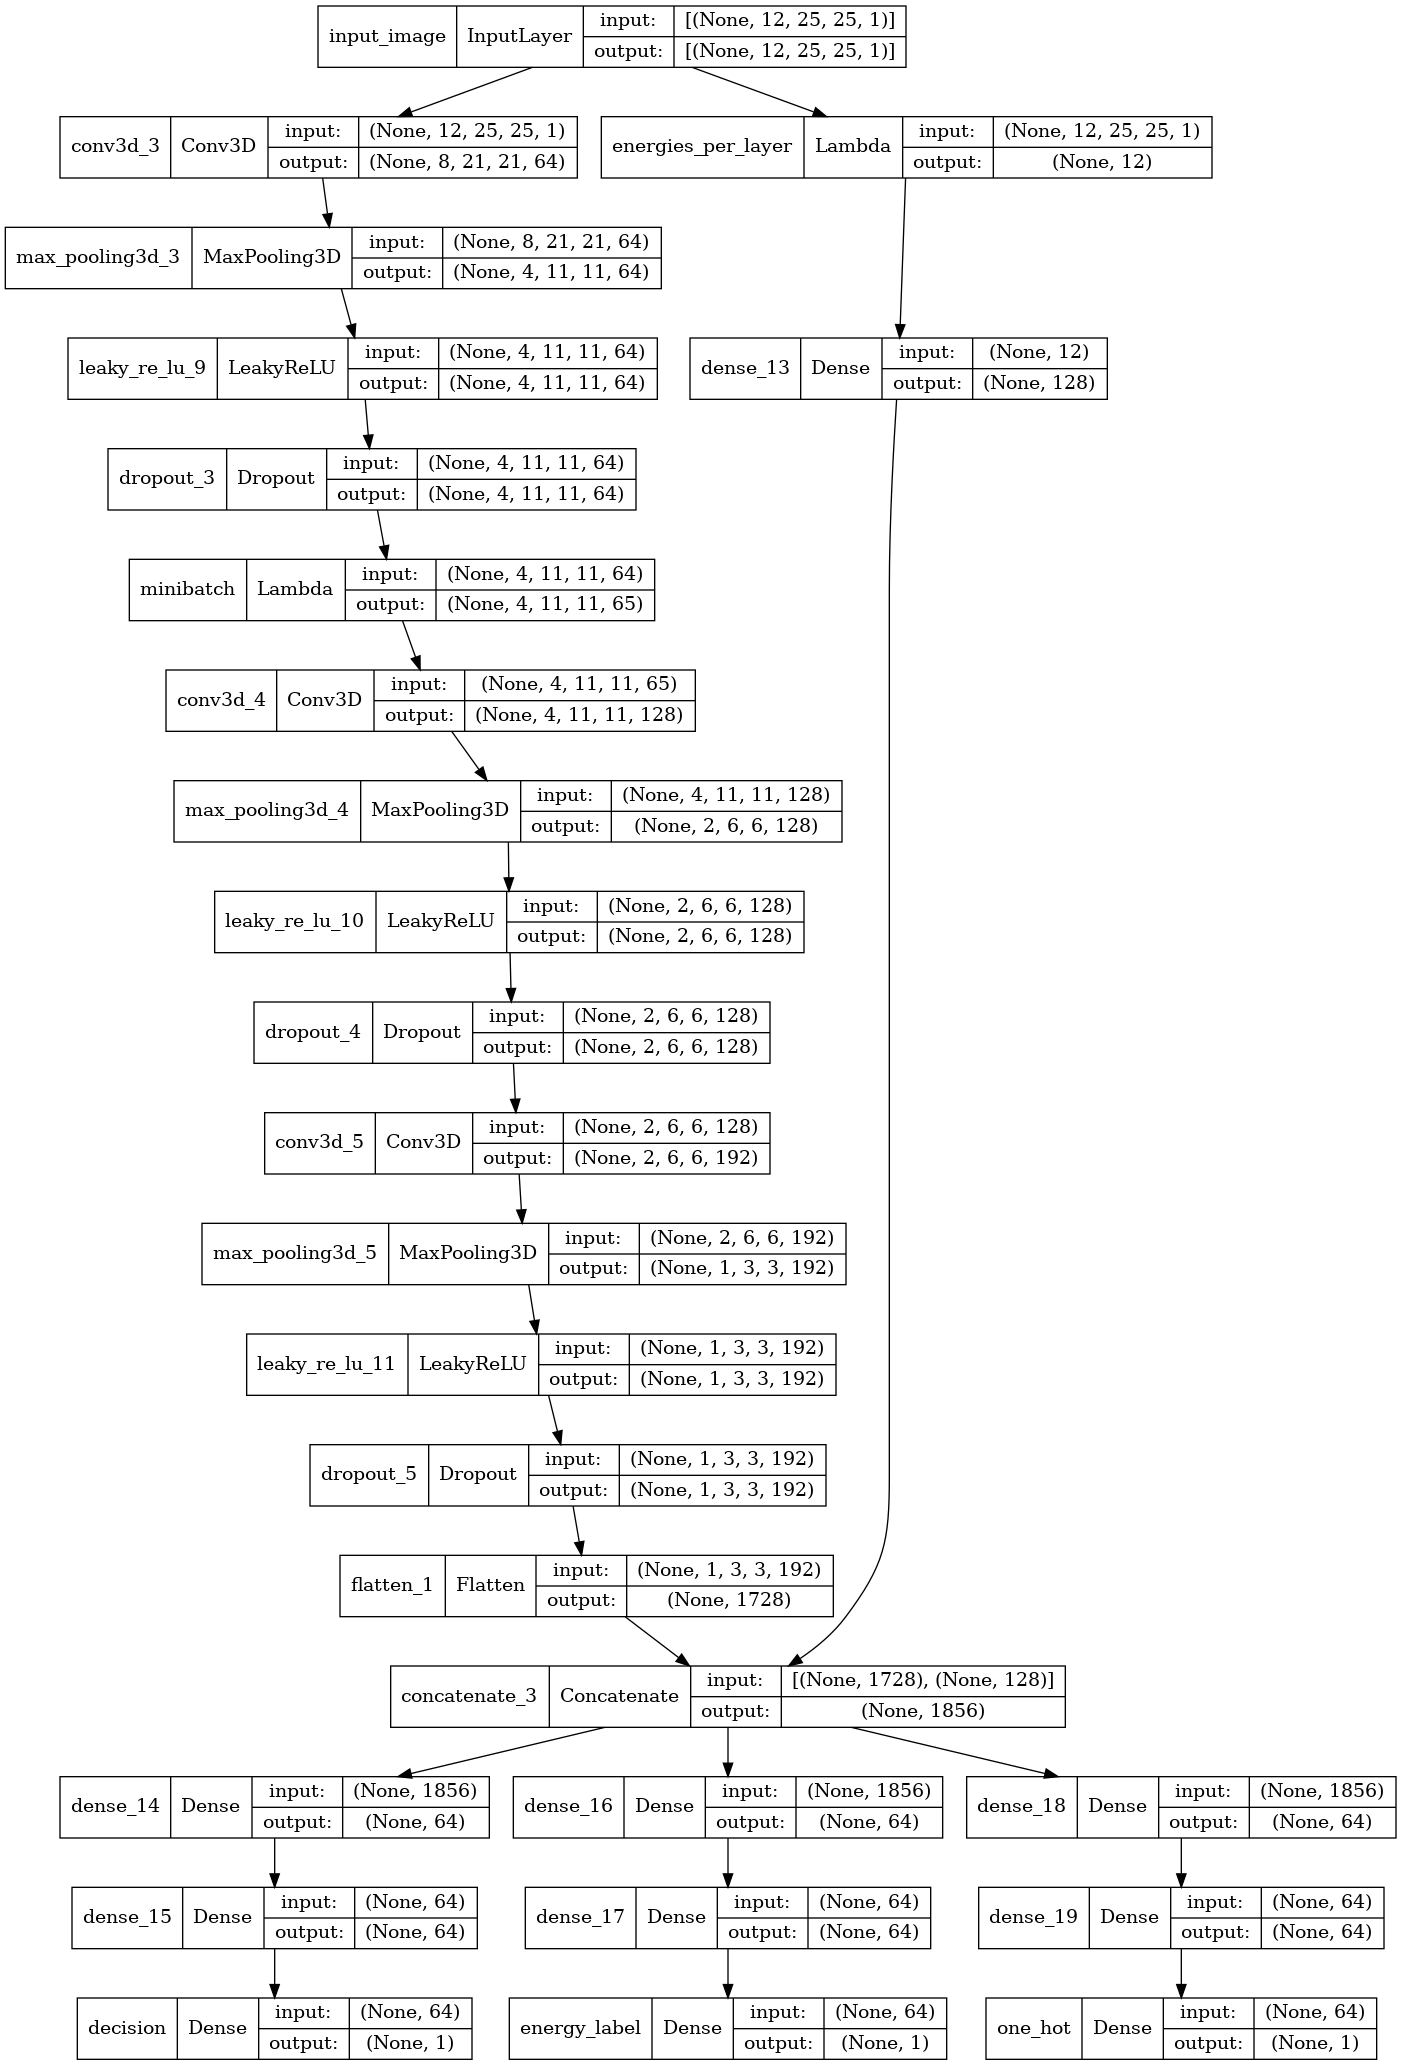
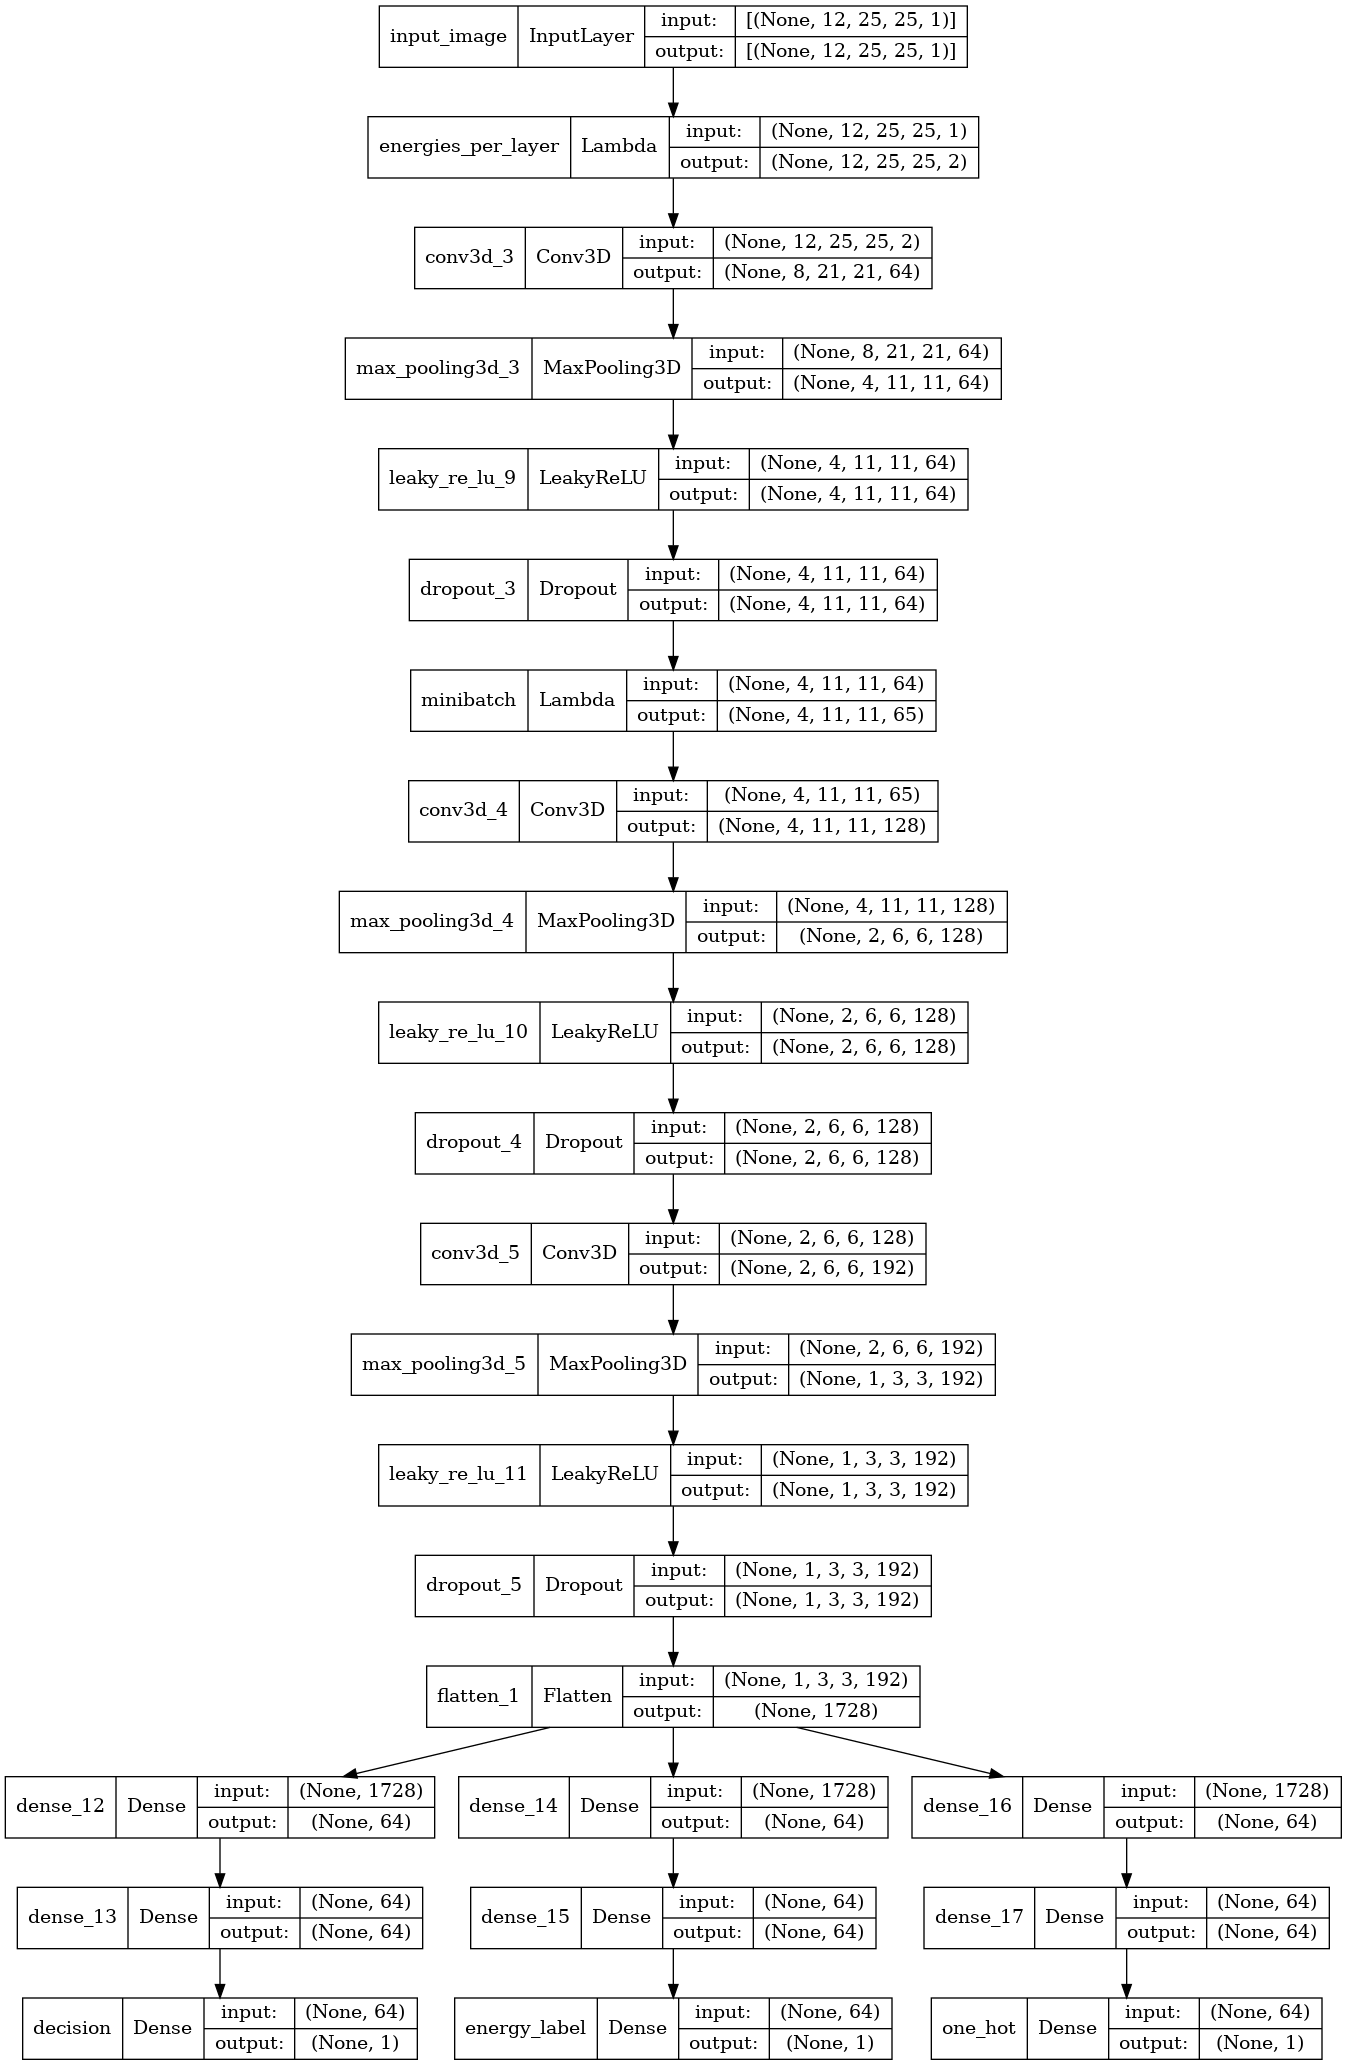
embedding in generator, energies_per_layer appendend at input in discriminator

diff --git a/EM_shower_simulator/make_models_D.py b/EM_shower_simulator/make_models_D.py
@@ -69,8 +69,8 @@ def make_generator_model():
 
     # Energy label input
     en_label = Input(shape=(1,), name="energy_input")
-    # li_en = Embedding(N_ENER, N_ENER*EMBED_DIM)(en_label)
-    li_en = Dense(n_nodes)(en_label)
+    li_en = Embedding(N_ENER, N_ENER*EMBED_DIM)(en_label)
+    li_en = Dense(n_nodes)(li_en)
     li_en = Reshape(input_shape)(li_en)
 
     # ParticleID label input
@@ -188,7 +188,7 @@ def compute_energy(in_images):
     """Compute energy deposited in detector
     """
     in_images = tf.cast(in_images, tf.float32)
-
+    
     en_images = tf.math.multiply(in_images, ENERGY_NORM)
     en_images = tf.math.pow(10., en_images)
     en_images = tf.math.divide(en_images, ENERGY_SCALE)
@@ -199,13 +199,16 @@ def energies_per_layer(in_images):
     """Compute energy deposited in detector for each layer
     """
     in_images = tf.cast(in_images, tf.float32)
+    shape = in_images.shape
 
     en_images = tf.math.multiply(in_images, ENERGY_NORM)
     en_images = tf.math.pow(10., en_images)
     en_images = tf.math.divide(en_images, ENERGY_SCALE)
-    en_images = tf.math.reduce_sum(en_images, axis=[2,3,4])
+    en_images = tf.math.reduce_sum(en_images, axis=[2,3,4], keepdims=True)
+
+    en_images = tf.tile(en_images, [1, 1 , shape[2], shape[3], 1])
     #output: (None, 12)
-    return en_images
+    return  tf.concat([in_images, en_images], axis=-1)
 
 
 def make_discriminator_model():
@@ -239,21 +242,21 @@ def make_discriminator_model():
     in_image = Input(shape=GEOMETRY, name="input_image")
 
     energies = Lambda(energies_per_layer, name="energies_per_layer")(in_image)
-    energies = Dense(2*N_FILTER, activation="relu")(energies)
+    # energies = Dense(2*N_FILTER, activation="relu")(energies)
 
-    discr = Lambda(minibatch_stddev_layer, name="minibatch_in")(in_image)
-    logger.info(f"Minibatch shape: {discr.get_shape()}")
+    # minibatch = Lambda(minibatch_stddev_layer, name="minibatch")(in_image)
+    # logger.info(f"Minibatch shape: {discr.get_shape()}")
 
-    discr = Conv3D(N_FILTER, KERNEL, use_bias=False)(discr)#in_image
+    discr = Conv3D(N_FILTER, KERNEL, use_bias=False)(energies)#in_image
     logger.info(discr.get_shape())
     discr = MaxPooling3D(pool_size = (2,2,2), padding ="same")(discr)
     discr = LeakyReLU()(discr)
     discr = Dropout(0.3)(discr)
 
-    # discr = Lambda(minibatch_stddev_layer, name="minibatch_med")(discr)
-    # logger.info(f"Minibatch shape: {discr.get_shape()}")
+    minibatch = Lambda(minibatch_stddev_layer, name="minibatch")(discr)
+    logger.info(f"Minibatch shape: {discr.get_shape()}")
 
-    discr = Conv3D(2*N_FILTER, (2,2,2) , padding="same", use_bias=False)(discr)
+    discr = Conv3D(2*N_FILTER, (2,2,2) , padding="same", use_bias=False)(minibatch)
     discr = MaxPooling3D(pool_size = (2,2,2) , padding ="same")(discr)
     logger.info(discr.get_shape())
     discr = LeakyReLU()(discr)
@@ -269,7 +272,7 @@ def make_discriminator_model():
 
     logger.info(discr.get_shape())
     discr = Flatten()(discr)
-    discr = Concatenate()([discr, energies])
+    # discr = Concatenate()([discr, energies])
 
     discr_conv = Dense(N_FILTER, activation="relu")(discr)
     discr_conv = Dense(N_FILTER, activation="relu")(discr_conv)
